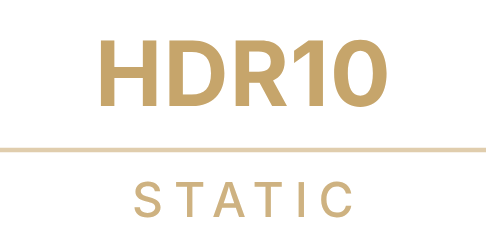
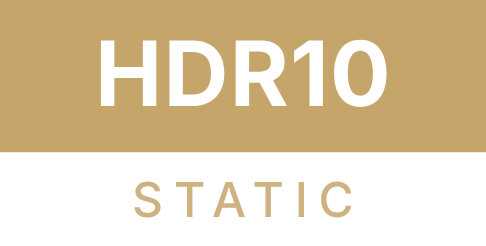
Keep the filled design only; fix image corner radius
Claude-Session: https://claude.ai/code/session_01YC6KB5EZ8ovPvHMJbFMYdf

diff --git a/index.html b/index.html
@@ -28,7 +28,6 @@ ol{padding-left:20px;color:#bdb8af} li{margin:6px 0}
 pre{margin:0;background:#0A0A0A;border:1px solid var(--line);border-radius:6px;padding:14px;overflow:auto;max-height:340px;font:12px/1.5 ui-monospace,SFMono-Regular,Menlo,monospace;color:#cfcac1}
 button{position:absolute;top:0;right:0;background:none;border:1px solid var(--line);color:var(--ink);border-radius:4px;font:500 12px Inter,sans-serif;padding:4px 10px;cursor:pointer}
 button:hover{border-color:var(--gold);color:var(--gold)}
-.tag{width:26px;font:600 10px Inter,sans-serif;letter-spacing:.1em;color:#5A5A5A}
 .legend{display:flex;gap:20px;color:var(--muted);font-size:13px;margin-top:14px}
 .dot{display:inline-block;width:8px;height:8px;border-radius:50%;margin-right:6px;vertical-align:1px}
 footer{margin-top:64px;color:#5A5A5A;font-size:12px}
@@ -43,32 +42,26 @@ footer{margin-top:64px;color:#5A5A5A;font-size:12px}
 <div class="card">
   <p class="vt">Film Title &middot; 2024</p>
   <p class="vs">2h45 &middot; Addon &middot; 69.03 GB</p>
-  <div class="row"><span class="tag">V1</span><span class="tb" style="color:#0E0E0E;border-color:#EDE8DF;background:#EDE8DF">4K</span><span class="tb" style="color:#C6A56B;border-color:#C6A56B;background:transparent">REMUX</span><span class="ib" style="--c:#C6A56B;--h:22px;--bw:1px;--r:5px"><img src="hdr/hdrdv.png" alt="HDR+DV"></span><span class="tb" style="color:#C6A56B;border-color:#C6A56B;background:transparent">ATMOS</span><span class="tb" style="color:#8C8C8C;border-color:#2E2E2E;background:transparent">7.1</span><span class="ib" style="--c:#C6A56B;--h:22px;--bw:1px;--r:5px"><img src="codec/h265.png" alt="H.265"></span><span class="ib" style="--c:#C6A56B;--h:22px;--bw:1px;--r:5px"><img src="codec/10bit.png" alt="10-BIT"></span><span class="tb" style="color:#EDE8DF;border-color:#2A2723;background:#2A2723">VO</span><span class="tb" style="color:#0E0E0E;border-color:#8C8C8C;background:#8C8C8C">RD</span></div>
-  <div class="row" style="margin-top:10px"><span class="tag">V2</span><span class="tb" style="color:#0E0E0E;border-color:#EDE8DF;background:#EDE8DF">4K</span><span class="tb" style="color:#C6A56B;border-color:#C6A56B;background:transparent">REMUX</span><span class="ib" style="--c:#C6A56B;--h:22px;--bw:1px;--r:5px"><img src="v2/hdr/hdrdv.png" alt="HDR+DV"></span><span class="tb" style="color:#C6A56B;border-color:#C6A56B;background:transparent">ATMOS</span><span class="tb" style="color:#8C8C8C;border-color:#2E2E2E;background:transparent">7.1</span><span class="ib" style="--c:#C6A56B;--h:22px;--bw:1px;--r:5px"><img src="v2/codec/h265.png" alt="H.265"></span><span class="ib" style="--c:#C6A56B;--h:22px;--bw:1px;--r:5px"><img src="v2/codec/10bit.png" alt="10-BIT"></span><span class="tb" style="color:#EDE8DF;border-color:#2A2723;background:#2A2723">VO</span><span class="tb" style="color:#0E0E0E;border-color:#8C8C8C;background:#8C8C8C">RD</span></div>
+  <div class="row"><span class="tb" style="color:#0E0E0E;border-color:#EDE8DF;background:#EDE8DF">4K</span><span class="tb" style="color:#C6A56B;border-color:#C6A56B;background:transparent">REMUX</span><span class="ib" style="--c:#C6A56B;--h:22px;--bw:1px;--r:5px"><img src="hdr/hdrdv.png" alt="HDR+DV"></span><span class="tb" style="color:#C6A56B;border-color:#C6A56B;background:transparent">ATMOS</span><span class="tb" style="color:#8C8C8C;border-color:#2E2E2E;background:transparent">7.1</span><span class="ib" style="--c:#C6A56B;--h:22px;--bw:1px;--r:5px"><img src="codec/h265.png" alt="H.265"></span><span class="ib" style="--c:#C6A56B;--h:22px;--bw:1px;--r:5px"><img src="codec/10bit.png" alt="10-BIT"></span><span class="tb" style="color:#EDE8DF;border-color:#2A2723;background:#2A2723">VO</span><span class="tb" style="color:#0E0E0E;border-color:#8C8C8C;background:#8C8C8C">RD</span></div>
 </div>
 
-<h2>Image badges V1</h2>
+<h2>Image badges</h2>
 <div class="card">
-  <div class="grid"><div class="cell"><span class="ib" style="--c:#C6A56B;--h:64px;--bw:2px;--r:6px"><img src="hdr/hdrdv.png" alt="HDR+DV"></span><code>hdr/hdrdv.png</code></div><div class="cell"><span class="ib" style="--c:#C6A56B;--h:64px;--bw:2px;--r:6px"><img src="hdr/hdr10plus.png" alt="HDR10+"></span><code>hdr/hdr10plus.png</code></div><div class="cell"><span class="ib" style="--c:#C6A56B;--h:64px;--bw:2px;--r:6px"><img src="hdr/hdr10.png" alt="HDR10"></span><code>hdr/hdr10.png</code></div><div class="cell"><span class="ib" style="--c:#C6A56B;--h:64px;--bw:2px;--r:6px"><img src="hdr/dv.png" alt="DV"></span><code>hdr/dv.png</code></div><div class="cell"><span class="ib" style="--c:#8C8C8C;--h:64px;--bw:2px;--r:6px"><img src="hdr/hlg.png" alt="HLG"></span><code>hdr/hlg.png</code></div><div class="cell"><span class="ib" style="--c:#8C8C8C;--h:64px;--bw:2px;--r:6px"><img src="hdr/sdr.png" alt="SDR"></span><code>hdr/sdr.png</code></div><div class="cell"><span class="ib" style="--c:#C6A56B;--h:64px;--bw:2px;--r:6px"><img src="codec/h265.png" alt="H.265"></span><code>codec/h265.png</code></div><div class="cell"><span class="ib" style="--c:#C6A56B;--h:64px;--bw:2px;--r:6px"><img src="codec/av1.png" alt="AV1"></span><code>codec/av1.png</code></div><div class="cell"><span class="ib" style="--c:#C6A56B;--h:64px;--bw:2px;--r:6px"><img src="codec/10bit.png" alt="10-BIT"></span><code>codec/10bit.png</code></div><div class="cell"><span class="ib" style="--c:#8C8C8C;--h:64px;--bw:2px;--r:6px"><img src="codec/h264.png" alt="H.264"></span><code>codec/h264.png</code></div><div class="cell"><span class="ib" style="--c:#8C8C8C;--h:64px;--bw:2px;--r:6px"><img src="codec/vp9.png" alt="VP9"></span><code>codec/vp9.png</code></div></div>
+  <div class="grid"><div class="cell"><span class="ib" style="--c:#C6A56B;--h:64px;--bw:2px;--r:7px"><img src="hdr/hdrdv.png" alt="HDR+DV"></span><code>hdr/hdrdv.png</code></div><div class="cell"><span class="ib" style="--c:#C6A56B;--h:64px;--bw:2px;--r:7px"><img src="hdr/hdr10plus.png" alt="HDR10+"></span><code>hdr/hdr10plus.png</code></div><div class="cell"><span class="ib" style="--c:#C6A56B;--h:64px;--bw:2px;--r:7px"><img src="hdr/hdr10.png" alt="HDR10"></span><code>hdr/hdr10.png</code></div><div class="cell"><span class="ib" style="--c:#C6A56B;--h:64px;--bw:2px;--r:7px"><img src="hdr/dv.png" alt="DV"></span><code>hdr/dv.png</code></div><div class="cell"><span class="ib" style="--c:#8C8C8C;--h:64px;--bw:2px;--r:7px"><img src="hdr/hlg.png" alt="HLG"></span><code>hdr/hlg.png</code></div><div class="cell"><span class="ib" style="--c:#8C8C8C;--h:64px;--bw:2px;--r:7px"><img src="hdr/sdr.png" alt="SDR"></span><code>hdr/sdr.png</code></div><div class="cell"><span class="ib" style="--c:#C6A56B;--h:64px;--bw:2px;--r:7px"><img src="codec/h265.png" alt="H.265"></span><code>codec/h265.png</code></div><div class="cell"><span class="ib" style="--c:#C6A56B;--h:64px;--bw:2px;--r:7px"><img src="codec/av1.png" alt="AV1"></span><code>codec/av1.png</code></div><div class="cell"><span class="ib" style="--c:#C6A56B;--h:64px;--bw:2px;--r:7px"><img src="codec/10bit.png" alt="10-BIT"></span><code>codec/10bit.png</code></div><div class="cell"><span class="ib" style="--c:#8C8C8C;--h:64px;--bw:2px;--r:7px"><img src="codec/h264.png" alt="H.264"></span><code>codec/h264.png</code></div><div class="cell"><span class="ib" style="--c:#8C8C8C;--h:64px;--bw:2px;--r:7px"><img src="codec/vp9.png" alt="VP9"></span><code>codec/vp9.png</code></div></div>
   <div class="legend"><span><i class="dot" style="background:#C6A56B"></i>Gold: optimal</span><span><i class="dot" style="background:#8C8C8C"></i>Grey: acceptable</span></div>
-</div>
-
-<h2>Image badges V2</h2>
-<div class="card">
-  <div class="grid"><div class="cell"><span class="ib" style="--c:#C6A56B;--h:64px;--bw:2px;--r:6px"><img src="v2/hdr/hdrdv.png" alt="HDR+DV"></span><code>v2/hdr/hdrdv.png</code></div><div class="cell"><span class="ib" style="--c:#C6A56B;--h:64px;--bw:2px;--r:6px"><img src="v2/hdr/hdr10plus.png" alt="HDR10+"></span><code>v2/hdr/hdr10plus.png</code></div><div class="cell"><span class="ib" style="--c:#C6A56B;--h:64px;--bw:2px;--r:6px"><img src="v2/hdr/hdr10.png" alt="HDR10"></span><code>v2/hdr/hdr10.png</code></div><div class="cell"><span class="ib" style="--c:#C6A56B;--h:64px;--bw:2px;--r:6px"><img src="v2/hdr/dv.png" alt="DV"></span><code>v2/hdr/dv.png</code></div><div class="cell"><span class="ib" style="--c:#8C8C8C;--h:64px;--bw:2px;--r:6px"><img src="v2/hdr/hlg.png" alt="HLG"></span><code>v2/hdr/hlg.png</code></div><div class="cell"><span class="ib" style="--c:#8C8C8C;--h:64px;--bw:2px;--r:6px"><img src="v2/hdr/sdr.png" alt="SDR"></span><code>v2/hdr/sdr.png</code></div><div class="cell"><span class="ib" style="--c:#C6A56B;--h:64px;--bw:2px;--r:6px"><img src="v2/codec/h265.png" alt="H.265"></span><code>v2/codec/h265.png</code></div><div class="cell"><span class="ib" style="--c:#C6A56B;--h:64px;--bw:2px;--r:6px"><img src="v2/codec/av1.png" alt="AV1"></span><code>v2/codec/av1.png</code></div><div class="cell"><span class="ib" style="--c:#C6A56B;--h:64px;--bw:2px;--r:6px"><img src="v2/codec/10bit.png" alt="10-BIT"></span><code>v2/codec/10bit.png</code></div><div class="cell"><span class="ib" style="--c:#8C8C8C;--h:64px;--bw:2px;--r:6px"><img src="v2/codec/h264.png" alt="H.264"></span><code>v2/codec/h264.png</code></div><div class="cell"><span class="ib" style="--c:#8C8C8C;--h:64px;--bw:2px;--r:6px"><img src="v2/codec/vp9.png" alt="VP9"></span><code>v2/codec/vp9.png</code></div></div>
 </div>
 
 <h2>Install</h2>
 <ol>
-<li>Badges: Settings &gt; Playback &gt; Versions &gt; Badges &gt; Edit. Delete all existing badges, paste badges.json (V1) or badges-v2.json (V2) in Import, click Import, then Save. The row should read "47 badges of your own".</li>
-<li>CSS: Settings &gt; Theme &gt; Custom CSS. Paste the CSS at the end, Apply CSS, then Keep within 15 s. Required for the image badges.</li>
-<li>Quick filters: Settings &gt; Playback &gt; Versions &gt; Quick filters &gt; Edit. Delete existing filters, paste the JSON in Import, Save.</li>
+<li>Badges: Settings &gt; Playback &gt; Versions &gt; Badges &gt; Edit. Delete all existing badges, paste badges.json in Import, click Import, then Save. The row should read "47 badges of your own".</li>
+<li>CSS: Settings &gt; Theme &gt; Custom CSS. Paste badges.css at the end, Apply CSS, then Keep within 15 s. Required for the image badges (same height and radius as text badges).</li>
+<li>Quick filters: Settings &gt; Playback &gt; Versions &gt; Quick filters &gt; Edit. Delete existing filters, paste quick-filters.json in Import, Save.</li>
 <li>Quit and relaunch the app so images reload.</li>
 </ol>
 <p>T1, T2, T3 and LQ need the Vidhin ranked stream expressions. RD, TB, AD and EN need four ranked stream expressions named "Ready RD", "Ready TB", "Ready AD", "Ready EN" (see README). Remove badges you do not use before importing.</p>
 
 <h2>Files</h2>
-<div class="blk"><h3>badges.json (V1)</h3><button data-t="b">Copy</button><pre id="b">{
+<div class="blk"><h3>badges.json</h3><button data-t="b">Copy</button><pre id="b">{
   &quot;badges&quot;: [
     {&quot;label&quot;: &quot;T1&quot;, &quot;match&quot;: &quot;\\bT1$&quot;, &quot;fields&quot;: [&quot;rseMatched&quot;], &quot;group&quot;: &quot;tier&quot;, &quot;color&quot;: &quot;#0E0E0E&quot;, &quot;background&quot;: &quot;#C6A56B&quot;, &quot;border&quot;: &quot;#C6A56B&quot;},
     {&quot;label&quot;: &quot;T2&quot;, &quot;match&quot;: &quot;\\bT2$&quot;, &quot;fields&quot;: [&quot;rseMatched&quot;], &quot;group&quot;: &quot;tier&quot;, &quot;color&quot;: &quot;#EDE8DF&quot;, &quot;border&quot;: &quot;#EDE8DF&quot;},
@@ -81,12 +74,12 @@ footer{margin-top:64px;color:#5A5A5A;font-size:12px}
     {&quot;label&quot;: &quot;BLURAY&quot;, &quot;match&quot;: &quot;^blu-?ray$&quot;, &quot;fields&quot;: [&quot;quality&quot;], &quot;group&quot;: &quot;src&quot;, &quot;color&quot;: &quot;#EDE8DF&quot;, &quot;border&quot;: &quot;#4A4A4A&quot;},
     {&quot;label&quot;: &quot;WEB-DL&quot;, &quot;match&quot;: &quot;^web-?dl$&quot;, &quot;fields&quot;: [&quot;quality&quot;], &quot;group&quot;: &quot;src&quot;, &quot;color&quot;: &quot;#8C8C8C&quot;, &quot;border&quot;: &quot;#4A4A4A&quot;},
     {&quot;label&quot;: &quot;WEBRIP&quot;, &quot;match&quot;: &quot;^web-?rip$&quot;, &quot;fields&quot;: [&quot;quality&quot;], &quot;group&quot;: &quot;src&quot;, &quot;color&quot;: &quot;#8C8C8C&quot;, &quot;border&quot;: &quot;#4A4A4A&quot;},
-    {&quot;label&quot;: &quot;HDR+DV&quot;, &quot;match&quot;: &quot;HDR\\+DV|(?=.*\\bHDR)(?=.*\\bDV\\b)&quot;, &quot;fields&quot;: [&quot;visualTags&quot;], &quot;group&quot;: &quot;hdr&quot;, &quot;image&quot;: &quot;https://raw.githubusercontent.com/paulthery/aiostreams-badges/main/hdr/hdrdv.png?v=5&quot;, &quot;border&quot;: &quot;#C6A56B&quot;},
-    {&quot;label&quot;: &quot;HDR10+&quot;, &quot;match&quot;: &quot;HDR10\\+&quot;, &quot;fields&quot;: [&quot;visualTags&quot;], &quot;group&quot;: &quot;hdr&quot;, &quot;image&quot;: &quot;https://raw.githubusercontent.com/paulthery/aiostreams-badges/main/hdr/hdr10plus.png?v=5&quot;, &quot;border&quot;: &quot;#C6A56B&quot;},
-    {&quot;label&quot;: &quot;HDR&quot;, &quot;match&quot;: &quot;\\bHDR(10)?\\b&quot;, &quot;fields&quot;: [&quot;visualTags&quot;], &quot;group&quot;: &quot;hdr&quot;, &quot;image&quot;: &quot;https://raw.githubusercontent.com/paulthery/aiostreams-badges/main/hdr/hdr10.png?v=5&quot;, &quot;border&quot;: &quot;#C6A56B&quot;},
-    {&quot;label&quot;: &quot;DV&quot;, &quot;match&quot;: &quot;\\bDV\\b&quot;, &quot;fields&quot;: [&quot;visualTags&quot;], &quot;group&quot;: &quot;hdr&quot;, &quot;image&quot;: &quot;https://raw.githubusercontent.com/paulthery/aiostreams-badges/main/hdr/dv.png?v=5&quot;, &quot;border&quot;: &quot;#C6A56B&quot;},
-    {&quot;label&quot;: &quot;HLG&quot;, &quot;match&quot;: &quot;^HLG$&quot;, &quot;fields&quot;: [&quot;visualTags&quot;], &quot;group&quot;: &quot;hdr&quot;, &quot;image&quot;: &quot;https://raw.githubusercontent.com/paulthery/aiostreams-badges/main/hdr/hlg.png?v=5&quot;, &quot;border&quot;: &quot;#8C8C8C&quot;},
-    {&quot;label&quot;: &quot;SDR&quot;, &quot;match&quot;: &quot;^SDR$&quot;, &quot;fields&quot;: [&quot;visualTags&quot;], &quot;group&quot;: &quot;hdr&quot;, &quot;image&quot;: &quot;https://raw.githubusercontent.com/paulthery/aiostreams-badges/main/hdr/sdr.png?v=5&quot;, &quot;border&quot;: &quot;#8C8C8C&quot;},
+    {&quot;label&quot;: &quot;HDR+DV&quot;, &quot;match&quot;: &quot;HDR\\+DV|(?=.*\\bHDR)(?=.*\\bDV\\b)&quot;, &quot;fields&quot;: [&quot;visualTags&quot;], &quot;group&quot;: &quot;hdr&quot;, &quot;image&quot;: &quot;https://raw.githubusercontent.com/paulthery/aiostreams-badges/main/hdr/hdrdv.png?v=6&quot;, &quot;border&quot;: &quot;#C6A56B&quot;},
+    {&quot;label&quot;: &quot;HDR10+&quot;, &quot;match&quot;: &quot;HDR10\\+&quot;, &quot;fields&quot;: [&quot;visualTags&quot;], &quot;group&quot;: &quot;hdr&quot;, &quot;image&quot;: &quot;https://raw.githubusercontent.com/paulthery/aiostreams-badges/main/hdr/hdr10plus.png?v=6&quot;, &quot;border&quot;: &quot;#C6A56B&quot;},
+    {&quot;label&quot;: &quot;HDR&quot;, &quot;match&quot;: &quot;\\bHDR(10)?\\b&quot;, &quot;fields&quot;: [&quot;visualTags&quot;], &quot;group&quot;: &quot;hdr&quot;, &quot;image&quot;: &quot;https://raw.githubusercontent.com/paulthery/aiostreams-badges/main/hdr/hdr10.png?v=6&quot;, &quot;border&quot;: &quot;#C6A56B&quot;},
+    {&quot;label&quot;: &quot;DV&quot;, &quot;match&quot;: &quot;\\bDV\\b&quot;, &quot;fields&quot;: [&quot;visualTags&quot;], &quot;group&quot;: &quot;hdr&quot;, &quot;image&quot;: &quot;https://raw.githubusercontent.com/paulthery/aiostreams-badges/main/hdr/dv.png?v=6&quot;, &quot;border&quot;: &quot;#C6A56B&quot;},
+    {&quot;label&quot;: &quot;HLG&quot;, &quot;match&quot;: &quot;^HLG$&quot;, &quot;fields&quot;: [&quot;visualTags&quot;], &quot;group&quot;: &quot;hdr&quot;, &quot;image&quot;: &quot;https://raw.githubusercontent.com/paulthery/aiostreams-badges/main/hdr/hlg.png?v=6&quot;, &quot;border&quot;: &quot;#8C8C8C&quot;},
+    {&quot;label&quot;: &quot;SDR&quot;, &quot;match&quot;: &quot;^SDR$&quot;, &quot;fields&quot;: [&quot;visualTags&quot;], &quot;group&quot;: &quot;hdr&quot;, &quot;image&quot;: &quot;https://raw.githubusercontent.com/paulthery/aiostreams-badges/main/hdr/sdr.png?v=6&quot;, &quot;border&quot;: &quot;#8C8C8C&quot;},
     {&quot;label&quot;: &quot;IMAX&quot;, &quot;match&quot;: &quot;\\bimax\\b&quot;, &quot;fields&quot;: [&quot;visualTags&quot;, &quot;editions&quot;, &quot;filename&quot;], &quot;color&quot;: &quot;#EDE8DF&quot;, &quot;border&quot;: &quot;#4A4A4A&quot;},
     {&quot;label&quot;: &quot;ATMOS&quot;, &quot;match&quot;: &quot;atmos&quot;, &quot;fields&quot;: [&quot;audioTags&quot;], &quot;group&quot;: &quot;audio&quot;, &quot;color&quot;: &quot;#C6A56B&quot;, &quot;border&quot;: &quot;#C6A56B&quot;},
     {&quot;label&quot;: &quot;DTS:X&quot;, &quot;match&quot;: &quot;dts[:-]?x&quot;, &quot;fields&quot;: [&quot;audioTags&quot;], &quot;group&quot;: &quot;audio&quot;, &quot;color&quot;: &quot;#C6A56B&quot;, &quot;border&quot;: &quot;#4A4A4A&quot;},
@@ -95,62 +88,11 @@ footer{margin-top:64px;color:#5A5A5A;font-size:12px}
     {&quot;label&quot;: &quot;DD+&quot;, &quot;match&quot;: &quot;^dd\\+$&quot;, &quot;fields&quot;: [&quot;audioTags&quot;], &quot;group&quot;: &quot;audio&quot;, &quot;color&quot;: &quot;#8C8C8C&quot;, &quot;border&quot;: &quot;#4A4A4A&quot;},
     {&quot;label&quot;: &quot;7.1&quot;, &quot;match&quot;: &quot;^7\\.1$&quot;, &quot;fields&quot;: [&quot;audioChannels&quot;], &quot;group&quot;: &quot;ch&quot;, &quot;color&quot;: &quot;#8C8C8C&quot;, &quot;border&quot;: &quot;#2E2E2E&quot;},
     {&quot;label&quot;: &quot;5.1&quot;, &quot;match&quot;: &quot;^5\\.1$&quot;, &quot;fields&quot;: [&quot;audioChannels&quot;], &quot;group&quot;: &quot;ch&quot;, &quot;color&quot;: &quot;#8C8C8C&quot;, &quot;border&quot;: &quot;#2E2E2E&quot;},
-    {&quot;label&quot;: &quot;HEVC&quot;, &quot;match&quot;: &quot;^(HEVC|H\\.?265|x265)$&quot;, &quot;fields&quot;: [&quot;encode&quot;], &quot;group&quot;: &quot;enc&quot;, &quot;image&quot;: &quot;https://raw.githubusercontent.com/paulthery/aiostreams-badges/main/codec/h265.png?v=5&quot;, &quot;border&quot;: &quot;#C6A56B&quot;},
-    {&quot;label&quot;: &quot;AV1&quot;, &quot;match&quot;: &quot;^AV1$&quot;, &quot;fields&quot;: [&quot;encode&quot;], &quot;group&quot;: &quot;enc&quot;, &quot;image&quot;: &quot;https://raw.githubusercontent.com/paulthery/aiostreams-badges/main/codec/av1.png?v=5&quot;, &quot;border&quot;: &quot;#C6A56B&quot;},
-    {&quot;label&quot;: &quot;H.264&quot;, &quot;match&quot;: &quot;^(AVC|H\\.?264|x264)$&quot;, &quot;fields&quot;: [&quot;encode&quot;], &quot;group&quot;: &quot;enc&quot;, &quot;image&quot;: &quot;https://raw.githubusercontent.com/paulthery/aiostreams-badges/main/codec/h264.png?v=5&quot;, &quot;border&quot;: &quot;#8C8C8C&quot;},
-    {&quot;label&quot;: &quot;VP9&quot;, &quot;match&quot;: &quot;^VP9$&quot;, &quot;fields&quot;: [&quot;encode&quot;], &quot;group&quot;: &quot;enc&quot;, &quot;image&quot;: &quot;https://raw.githubusercontent.com/paulthery/aiostreams-badges/main/codec/vp9.png?v=5&quot;, &quot;border&quot;: &quot;#8C8C8C&quot;},
-    {&quot;label&quot;: &quot;10BIT&quot;, &quot;match&quot;: &quot;\\b10[ ._-]?bit\\b&quot;, &quot;fields&quot;: [&quot;filename&quot;], &quot;image&quot;: &quot;https://raw.githubusercontent.com/paulthery/aiostreams-badges/main/codec/10bit.png?v=5&quot;, &quot;border&quot;: &quot;#C6A56B&quot;},
-    {&quot;label&quot;: &quot;VFF&quot;, &quot;match&quot;: &quot;\\b(TRUEFRENCH|VFF|VF2)\\b&quot;, &quot;fields&quot;: [&quot;filename&quot;, &quot;folderName&quot;], &quot;group&quot;: &quot;fr&quot;, &quot;color&quot;: &quot;#EDE8DF&quot;, &quot;background&quot;: &quot;#2A2723&quot;, &quot;border&quot;: &quot;#2A2723&quot;},
-    {&quot;label&quot;: &quot;VFQ&quot;, &quot;match&quot;: &quot;\\b(VFQ|VQ)\\b&quot;, &quot;fields&quot;: [&quot;filename&quot;, &quot;folderName&quot;], &quot;group&quot;: &quot;fr&quot;, &quot;color&quot;: &quot;#EDE8DF&quot;, &quot;background&quot;: &quot;#2A2723&quot;, &quot;border&quot;: &quot;#2A2723&quot;},
-    {&quot;label&quot;: &quot;VF&quot;, &quot;match&quot;: &quot;^French$&quot;, &quot;fields&quot;: [&quot;languages&quot;], &quot;group&quot;: &quot;fr&quot;, &quot;color&quot;: &quot;#EDE8DF&quot;, &quot;background&quot;: &quot;#2A2723&quot;, &quot;border&quot;: &quot;#2A2723&quot;},
-    {&quot;label&quot;: &quot;VOSTFR&quot;, &quot;match&quot;: &quot;\\b(VOST(FR)?|SUBFRENCH)\\b&quot;, &quot;fields&quot;: [&quot;filename&quot;, &quot;folderName&quot;], &quot;group&quot;: &quot;fr&quot;, &quot;color&quot;: &quot;#8C8C8C&quot;, &quot;background&quot;: &quot;#1C1B19&quot;, &quot;border&quot;: &quot;#1C1B19&quot;},
-    {&quot;label&quot;: &quot;VF+VO&quot;, &quot;match&quot;: &quot;\\bmulti\\b|^dual audio$&quot;, &quot;fields&quot;: [&quot;languages&quot;, &quot;filename&quot;, &quot;folderName&quot;], &quot;group&quot;: &quot;lang&quot;, &quot;color&quot;: &quot;#EDE8DF&quot;, &quot;background&quot;: &quot;#2A2723&quot;, &quot;border&quot;: &quot;#2A2723&quot;},
-    {&quot;label&quot;: &quot;VO&quot;, &quot;match&quot;: &quot;^(English|Original)$&quot;, &quot;fields&quot;: [&quot;languages&quot;], &quot;group&quot;: &quot;lang&quot;, &quot;color&quot;: &quot;#EDE8DF&quot;, &quot;background&quot;: &quot;#2A2723&quot;, &quot;border&quot;: &quot;#2A2723&quot;},
-    {&quot;label&quot;: &quot;DIR CUT&quot;, &quot;match&quot;: &quot;director&quot;, &quot;fields&quot;: [&quot;editions&quot;], &quot;group&quot;: &quot;ed&quot;, &quot;color&quot;: &quot;#8C8C8C&quot;, &quot;border&quot;: &quot;#2E2E2E&quot;},
-    {&quot;label&quot;: &quot;EXTENDED&quot;, &quot;match&quot;: &quot;extended&quot;, &quot;fields&quot;: [&quot;editions&quot;], &quot;group&quot;: &quot;ed&quot;, &quot;color&quot;: &quot;#8C8C8C&quot;, &quot;border&quot;: &quot;#2E2E2E&quot;},
-    {&quot;label&quot;: &quot;REMASTERED&quot;, &quot;match&quot;: &quot;remaster&quot;, &quot;fields&quot;: [&quot;editions&quot;], &quot;group&quot;: &quot;ed&quot;, &quot;color&quot;: &quot;#8C8C8C&quot;, &quot;border&quot;: &quot;#2E2E2E&quot;},
-    {&quot;label&quot;: &quot;CRITERION&quot;, &quot;match&quot;: &quot;\\b(criterion|CC)\\b&quot;, &quot;fields&quot;: [&quot;filename&quot;, &quot;folderName&quot;], &quot;color&quot;: &quot;#C6A56B&quot;, &quot;border&quot;: &quot;#4A4A4A&quot;},
-    {&quot;label&quot;: &quot;OPEN MATTE&quot;, &quot;match&quot;: &quot;open[ ._-]?matte&quot;, &quot;fields&quot;: [&quot;filename&quot;, &quot;folderName&quot;], &quot;color&quot;: &quot;#EDE8DF&quot;, &quot;border&quot;: &quot;#2E2E2E&quot;},
-    {&quot;label&quot;: &quot;PROPER&quot;, &quot;match&quot;: &quot;\\b(repack|proper|rerip)\\d?\\b&quot;, &quot;fields&quot;: [&quot;filename&quot;], &quot;color&quot;: &quot;#8C8C8C&quot;, &quot;border&quot;: &quot;#2E2E2E&quot;},
-    {&quot;label&quot;: &quot;PACK&quot;, &quot;match&quot;: &quot;\\bS\\d{1,2}\\b(?![ ._-]?E\\d)|\\bcomplete\\b|\\bintegrale?\\b&quot;, &quot;fields&quot;: [&quot;filename&quot;, &quot;folderName&quot;], &quot;color&quot;: &quot;#8C8C8C&quot;, &quot;border&quot;: &quot;#2E2E2E&quot;},
-    {&quot;label&quot;: &quot;RD&quot;, &quot;match&quot;: &quot;^Ready RD$&quot;, &quot;fields&quot;: [&quot;rseMatched&quot;], &quot;group&quot;: &quot;svc&quot;, &quot;color&quot;: &quot;#0E0E0E&quot;, &quot;background&quot;: &quot;#8C8C8C&quot;, &quot;border&quot;: &quot;#8C8C8C&quot;},
-    {&quot;label&quot;: &quot;TB&quot;, &quot;match&quot;: &quot;^Ready TB$&quot;, &quot;fields&quot;: [&quot;rseMatched&quot;], &quot;group&quot;: &quot;svc&quot;, &quot;color&quot;: &quot;#0E0E0E&quot;, &quot;background&quot;: &quot;#8C8C8C&quot;, &quot;border&quot;: &quot;#8C8C8C&quot;},
-    {&quot;label&quot;: &quot;AD&quot;, &quot;match&quot;: &quot;^Ready AD$&quot;, &quot;fields&quot;: [&quot;rseMatched&quot;], &quot;group&quot;: &quot;svc&quot;, &quot;color&quot;: &quot;#0E0E0E&quot;, &quot;background&quot;: &quot;#8C8C8C&quot;, &quot;border&quot;: &quot;#8C8C8C&quot;},
-    {&quot;label&quot;: &quot;EN&quot;, &quot;match&quot;: &quot;^Ready EN$&quot;, &quot;fields&quot;: [&quot;rseMatched&quot;], &quot;group&quot;: &quot;svc&quot;, &quot;color&quot;: &quot;#0E0E0E&quot;, &quot;background&quot;: &quot;#8C8C8C&quot;, &quot;border&quot;: &quot;#8C8C8C&quot;}
-  ]
-}</pre></div>
-<div class="blk"><h3>badges-v2.json</h3><button data-t="b2">Copy</button><pre id="b2">{
-  &quot;badges&quot;: [
-    {&quot;label&quot;: &quot;T1&quot;, &quot;match&quot;: &quot;\\bT1$&quot;, &quot;fields&quot;: [&quot;rseMatched&quot;], &quot;group&quot;: &quot;tier&quot;, &quot;color&quot;: &quot;#0E0E0E&quot;, &quot;background&quot;: &quot;#C6A56B&quot;, &quot;border&quot;: &quot;#C6A56B&quot;},
-    {&quot;label&quot;: &quot;T2&quot;, &quot;match&quot;: &quot;\\bT2$&quot;, &quot;fields&quot;: [&quot;rseMatched&quot;], &quot;group&quot;: &quot;tier&quot;, &quot;color&quot;: &quot;#EDE8DF&quot;, &quot;border&quot;: &quot;#EDE8DF&quot;},
-    {&quot;label&quot;: &quot;T3&quot;, &quot;match&quot;: &quot;\\bT3$&quot;, &quot;fields&quot;: [&quot;rseMatched&quot;], &quot;group&quot;: &quot;tier&quot;, &quot;color&quot;: &quot;#8C8C8C&quot;, &quot;border&quot;: &quot;#4A4A4A&quot;},
-    {&quot;label&quot;: &quot;LQ&quot;, &quot;match&quot;: &quot;^(LQ|LQ Title|Anime LQ|Asian LQ|Upscaled|FR FastSUB|FR LQ .*)$&quot;, &quot;fields&quot;: [&quot;rseMatched&quot;], &quot;color&quot;: &quot;#8C8C8C&quot;, &quot;border&quot;: &quot;#8C8C8C&quot;},
-    {&quot;label&quot;: &quot;4K&quot;, &quot;match&quot;: &quot;^(2160p|4k)$&quot;, &quot;fields&quot;: [&quot;resolution&quot;], &quot;group&quot;: &quot;res&quot;, &quot;color&quot;: &quot;#0E0E0E&quot;, &quot;background&quot;: &quot;#EDE8DF&quot;, &quot;border&quot;: &quot;#EDE8DF&quot;},
-    {&quot;label&quot;: &quot;1080&quot;, &quot;match&quot;: &quot;^1080p$&quot;, &quot;fields&quot;: [&quot;resolution&quot;], &quot;group&quot;: &quot;res&quot;, &quot;color&quot;: &quot;#EDE8DF&quot;, &quot;border&quot;: &quot;#EDE8DF&quot;},
-    {&quot;label&quot;: &quot;720&quot;, &quot;match&quot;: &quot;^720p$&quot;, &quot;fields&quot;: [&quot;resolution&quot;], &quot;group&quot;: &quot;res&quot;, &quot;color&quot;: &quot;#8C8C8C&quot;, &quot;border&quot;: &quot;#4A4A4A&quot;},
-    {&quot;label&quot;: &quot;REMUX&quot;, &quot;match&quot;: &quot;remux&quot;, &quot;fields&quot;: [&quot;quality&quot;], &quot;group&quot;: &quot;src&quot;, &quot;color&quot;: &quot;#C6A56B&quot;, &quot;border&quot;: &quot;#C6A56B&quot;},
-    {&quot;label&quot;: &quot;BLURAY&quot;, &quot;match&quot;: &quot;^blu-?ray$&quot;, &quot;fields&quot;: [&quot;quality&quot;], &quot;group&quot;: &quot;src&quot;, &quot;color&quot;: &quot;#EDE8DF&quot;, &quot;border&quot;: &quot;#4A4A4A&quot;},
-    {&quot;label&quot;: &quot;WEB-DL&quot;, &quot;match&quot;: &quot;^web-?dl$&quot;, &quot;fields&quot;: [&quot;quality&quot;], &quot;group&quot;: &quot;src&quot;, &quot;color&quot;: &quot;#8C8C8C&quot;, &quot;border&quot;: &quot;#4A4A4A&quot;},
-    {&quot;label&quot;: &quot;WEBRIP&quot;, &quot;match&quot;: &quot;^web-?rip$&quot;, &quot;fields&quot;: [&quot;quality&quot;], &quot;group&quot;: &quot;src&quot;, &quot;color&quot;: &quot;#8C8C8C&quot;, &quot;border&quot;: &quot;#4A4A4A&quot;},
-    {&quot;label&quot;: &quot;HDR+DV&quot;, &quot;match&quot;: &quot;HDR\\+DV|(?=.*\\bHDR)(?=.*\\bDV\\b)&quot;, &quot;fields&quot;: [&quot;visualTags&quot;], &quot;group&quot;: &quot;hdr&quot;, &quot;image&quot;: &quot;https://raw.githubusercontent.com/paulthery/aiostreams-badges/main/v2/hdr/hdrdv.png?v=1&quot;, &quot;border&quot;: &quot;#C6A56B&quot;},
-    {&quot;label&quot;: &quot;HDR10+&quot;, &quot;match&quot;: &quot;HDR10\\+&quot;, &quot;fields&quot;: [&quot;visualTags&quot;], &quot;group&quot;: &quot;hdr&quot;, &quot;image&quot;: &quot;https://raw.githubusercontent.com/paulthery/aiostreams-badges/main/v2/hdr/hdr10plus.png?v=1&quot;, &quot;border&quot;: &quot;#C6A56B&quot;},
-    {&quot;label&quot;: &quot;HDR&quot;, &quot;match&quot;: &quot;\\bHDR(10)?\\b&quot;, &quot;fields&quot;: [&quot;visualTags&quot;], &quot;group&quot;: &quot;hdr&quot;, &quot;image&quot;: &quot;https://raw.githubusercontent.com/paulthery/aiostreams-badges/main/v2/hdr/hdr10.png?v=1&quot;, &quot;border&quot;: &quot;#C6A56B&quot;},
-    {&quot;label&quot;: &quot;DV&quot;, &quot;match&quot;: &quot;\\bDV\\b&quot;, &quot;fields&quot;: [&quot;visualTags&quot;], &quot;group&quot;: &quot;hdr&quot;, &quot;image&quot;: &quot;https://raw.githubusercontent.com/paulthery/aiostreams-badges/main/v2/hdr/dv.png?v=1&quot;, &quot;border&quot;: &quot;#C6A56B&quot;},
-    {&quot;label&quot;: &quot;HLG&quot;, &quot;match&quot;: &quot;^HLG$&quot;, &quot;fields&quot;: [&quot;visualTags&quot;], &quot;group&quot;: &quot;hdr&quot;, &quot;image&quot;: &quot;https://raw.githubusercontent.com/paulthery/aiostreams-badges/main/v2/hdr/hlg.png?v=1&quot;, &quot;border&quot;: &quot;#8C8C8C&quot;},
-    {&quot;label&quot;: &quot;SDR&quot;, &quot;match&quot;: &quot;^SDR$&quot;, &quot;fields&quot;: [&quot;visualTags&quot;], &quot;group&quot;: &quot;hdr&quot;, &quot;image&quot;: &quot;https://raw.githubusercontent.com/paulthery/aiostreams-badges/main/v2/hdr/sdr.png?v=1&quot;, &quot;border&quot;: &quot;#8C8C8C&quot;},
-    {&quot;label&quot;: &quot;IMAX&quot;, &quot;match&quot;: &quot;\\bimax\\b&quot;, &quot;fields&quot;: [&quot;visualTags&quot;, &quot;editions&quot;, &quot;filename&quot;], &quot;color&quot;: &quot;#EDE8DF&quot;, &quot;border&quot;: &quot;#4A4A4A&quot;},
-    {&quot;label&quot;: &quot;ATMOS&quot;, &quot;match&quot;: &quot;atmos&quot;, &quot;fields&quot;: [&quot;audioTags&quot;], &quot;group&quot;: &quot;audio&quot;, &quot;color&quot;: &quot;#C6A56B&quot;, &quot;border&quot;: &quot;#C6A56B&quot;},
-    {&quot;label&quot;: &quot;DTS:X&quot;, &quot;match&quot;: &quot;dts[:-]?x&quot;, &quot;fields&quot;: [&quot;audioTags&quot;], &quot;group&quot;: &quot;audio&quot;, &quot;color&quot;: &quot;#C6A56B&quot;, &quot;border&quot;: &quot;#4A4A4A&quot;},
-    {&quot;label&quot;: &quot;TRUEHD&quot;, &quot;match&quot;: &quot;truehd&quot;, &quot;fields&quot;: [&quot;audioTags&quot;], &quot;group&quot;: &quot;audio&quot;, &quot;color&quot;: &quot;#EDE8DF&quot;, &quot;border&quot;: &quot;#4A4A4A&quot;},
-    {&quot;label&quot;: &quot;DTS-HD MA&quot;, &quot;match&quot;: &quot;dts-hd ?ma&quot;, &quot;fields&quot;: [&quot;audioTags&quot;], &quot;group&quot;: &quot;audio&quot;, &quot;color&quot;: &quot;#EDE8DF&quot;, &quot;border&quot;: &quot;#4A4A4A&quot;},
-    {&quot;label&quot;: &quot;DD+&quot;, &quot;match&quot;: &quot;^dd\\+$&quot;, &quot;fields&quot;: [&quot;audioTags&quot;], &quot;group&quot;: &quot;audio&quot;, &quot;color&quot;: &quot;#8C8C8C&quot;, &quot;border&quot;: &quot;#4A4A4A&quot;},
-    {&quot;label&quot;: &quot;7.1&quot;, &quot;match&quot;: &quot;^7\\.1$&quot;, &quot;fields&quot;: [&quot;audioChannels&quot;], &quot;group&quot;: &quot;ch&quot;, &quot;color&quot;: &quot;#8C8C8C&quot;, &quot;border&quot;: &quot;#2E2E2E&quot;},
-    {&quot;label&quot;: &quot;5.1&quot;, &quot;match&quot;: &quot;^5\\.1$&quot;, &quot;fields&quot;: [&quot;audioChannels&quot;], &quot;group&quot;: &quot;ch&quot;, &quot;color&quot;: &quot;#8C8C8C&quot;, &quot;border&quot;: &quot;#2E2E2E&quot;},
-    {&quot;label&quot;: &quot;HEVC&quot;, &quot;match&quot;: &quot;^(HEVC|H\\.?265|x265)$&quot;, &quot;fields&quot;: [&quot;encode&quot;], &quot;group&quot;: &quot;enc&quot;, &quot;image&quot;: &quot;https://raw.githubusercontent.com/paulthery/aiostreams-badges/main/v2/codec/h265.png?v=1&quot;, &quot;border&quot;: &quot;#C6A56B&quot;},
-    {&quot;label&quot;: &quot;AV1&quot;, &quot;match&quot;: &quot;^AV1$&quot;, &quot;fields&quot;: [&quot;encode&quot;], &quot;group&quot;: &quot;enc&quot;, &quot;image&quot;: &quot;https://raw.githubusercontent.com/paulthery/aiostreams-badges/main/v2/codec/av1.png?v=1&quot;, &quot;border&quot;: &quot;#C6A56B&quot;},
-    {&quot;label&quot;: &quot;H.264&quot;, &quot;match&quot;: &quot;^(AVC|H\\.?264|x264)$&quot;, &quot;fields&quot;: [&quot;encode&quot;], &quot;group&quot;: &quot;enc&quot;, &quot;image&quot;: &quot;https://raw.githubusercontent.com/paulthery/aiostreams-badges/main/v2/codec/h264.png?v=1&quot;, &quot;border&quot;: &quot;#8C8C8C&quot;},
-    {&quot;label&quot;: &quot;VP9&quot;, &quot;match&quot;: &quot;^VP9$&quot;, &quot;fields&quot;: [&quot;encode&quot;], &quot;group&quot;: &quot;enc&quot;, &quot;image&quot;: &quot;https://raw.githubusercontent.com/paulthery/aiostreams-badges/main/v2/codec/vp9.png?v=1&quot;, &quot;border&quot;: &quot;#8C8C8C&quot;},
-    {&quot;label&quot;: &quot;10BIT&quot;, &quot;match&quot;: &quot;\\b10[ ._-]?bit\\b&quot;, &quot;fields&quot;: [&quot;filename&quot;], &quot;image&quot;: &quot;https://raw.githubusercontent.com/paulthery/aiostreams-badges/main/v2/codec/10bit.png?v=1&quot;, &quot;border&quot;: &quot;#C6A56B&quot;},
+    {&quot;label&quot;: &quot;HEVC&quot;, &quot;match&quot;: &quot;^(HEVC|H\\.?265|x265)$&quot;, &quot;fields&quot;: [&quot;encode&quot;], &quot;group&quot;: &quot;enc&quot;, &quot;image&quot;: &quot;https://raw.githubusercontent.com/paulthery/aiostreams-badges/main/codec/h265.png?v=6&quot;, &quot;border&quot;: &quot;#C6A56B&quot;},
+    {&quot;label&quot;: &quot;AV1&quot;, &quot;match&quot;: &quot;^AV1$&quot;, &quot;fields&quot;: [&quot;encode&quot;], &quot;group&quot;: &quot;enc&quot;, &quot;image&quot;: &quot;https://raw.githubusercontent.com/paulthery/aiostreams-badges/main/codec/av1.png?v=6&quot;, &quot;border&quot;: &quot;#C6A56B&quot;},
+    {&quot;label&quot;: &quot;H.264&quot;, &quot;match&quot;: &quot;^(AVC|H\\.?264|x264)$&quot;, &quot;fields&quot;: [&quot;encode&quot;], &quot;group&quot;: &quot;enc&quot;, &quot;image&quot;: &quot;https://raw.githubusercontent.com/paulthery/aiostreams-badges/main/codec/h264.png?v=6&quot;, &quot;border&quot;: &quot;#8C8C8C&quot;},
+    {&quot;label&quot;: &quot;VP9&quot;, &quot;match&quot;: &quot;^VP9$&quot;, &quot;fields&quot;: [&quot;encode&quot;], &quot;group&quot;: &quot;enc&quot;, &quot;image&quot;: &quot;https://raw.githubusercontent.com/paulthery/aiostreams-badges/main/codec/vp9.png?v=6&quot;, &quot;border&quot;: &quot;#8C8C8C&quot;},
+    {&quot;label&quot;: &quot;10BIT&quot;, &quot;match&quot;: &quot;\\b10[ ._-]?bit\\b&quot;, &quot;fields&quot;: [&quot;filename&quot;], &quot;image&quot;: &quot;https://raw.githubusercontent.com/paulthery/aiostreams-badges/main/codec/10bit.png?v=6&quot;, &quot;border&quot;: &quot;#C6A56B&quot;},
     {&quot;label&quot;: &quot;VFF&quot;, &quot;match&quot;: &quot;\\b(TRUEFRENCH|VFF|VF2)\\b&quot;, &quot;fields&quot;: [&quot;filename&quot;, &quot;folderName&quot;], &quot;group&quot;: &quot;fr&quot;, &quot;color&quot;: &quot;#EDE8DF&quot;, &quot;background&quot;: &quot;#2A2723&quot;, &quot;border&quot;: &quot;#2A2723&quot;},
     {&quot;label&quot;: &quot;VFQ&quot;, &quot;match&quot;: &quot;\\b(VFQ|VQ)\\b&quot;, &quot;fields&quot;: [&quot;filename&quot;, &quot;folderName&quot;], &quot;group&quot;: &quot;fr&quot;, &quot;color&quot;: &quot;#EDE8DF&quot;, &quot;background&quot;: &quot;#2A2723&quot;, &quot;border&quot;: &quot;#2A2723&quot;},
     {&quot;label&quot;: &quot;VF&quot;, &quot;match&quot;: &quot;^French$&quot;, &quot;fields&quot;: [&quot;languages&quot;], &quot;group&quot;: &quot;fr&quot;, &quot;color&quot;: &quot;#EDE8DF&quot;, &quot;background&quot;: &quot;#2A2723&quot;, &quot;border&quot;: &quot;#2A2723&quot;},
@@ -189,6 +131,7 @@ img[data-ui=&#x27;version-badge&#x27;] {
 }
 [data-ui=&#x27;version-badge&#x27;] &gt; img {
   height: 100% !important;
+  border-radius: 0 !important;
   width: auto !important;
   max-height: none !important;
   display: block;
@@ -215,8 +158,8 @@ document.querySelectorAll('button[data-t]').forEach(function(btn){
   btn.addEventListener('click',function(){
     var txt=document.getElementById(btn.dataset.t).textContent;
     function done(){btn.textContent='Copied';setTimeout(function(){btn.textContent='Copy'},1400)}
-    if(navigator.clipboard&&navigator.clipboard.writeText){navigator.clipboard.writeText(txt).then(done,fallback)}else{fallback()}
     function fallback(){var t=document.createElement('textarea');t.value=txt;document.body.appendChild(t);t.select();try{document.execCommand('copy');done()}catch(e){}document.body.removeChild(t)}
+    if(navigator.clipboard&&navigator.clipboard.writeText){navigator.clipboard.writeText(txt).then(done,fallback)}else{fallback()}
   });
 });
 </script>

diff --git a/badges.css b/badges.css
@@ -17,6 +17,7 @@ img[data-ui='version-badge'] {
 }
 [data-ui='version-badge'] > img {
   height: 100% !important;
+  border-radius: 0 !important;
   width: auto !important;
   max-height: none !important;
   display: block;

diff --git a/README.md b/README.md
@@ -1,31 +1,22 @@
 # aiostreams-badges
 
 Version badges for the AIOStreams app. Gold = optimal, grey = acceptable.
-Codec and dynamic range are image badges (two lines: name over detail).
-Everything else stays as native text badges.
+Codec and dynamic range are two-line image badges: a filled top block with
+the name cut out, the detail below a full-width rule. Everything else stays
+as native text badges.
 
-![V1](preview-v1.png)
-![V2](preview-v2.png)
+![Preview](preview.png)
 
 Open index.html for a visual overview with copy buttons.
-
-## Versions
-
-    V1  gold text on transparent, thin rule across the box   badges.json
-    V2  gold top block with cut-out text, bottom as V1        badges-v2.json
-
-Both use the same badges.css (one height and one corner radius for all
-badges, image fills the app frame).
 
 ## Files
 
     index.html          overview page: preview, install, copy buttons
-    badges.json         full badge set, V1 images (47 badges)
-    badges-v2.json      full badge set, V2 images
-    quick-filters.json  quick filter row (T1, 4K, HD, SD, HDR, SDR, IMAX, Extended, VF)
+    badges.json         full badge set (47 badges)
     badges.css          custom CSS, required for the image badges
-    codec/  hdr/        V1 images, PNG 6x + SVG
-    v2/codec/  v2/hdr/  V2 images, PNG 6x + SVG
+    quick-filters.json  quick filter row (T1, 4K, HD, SD, HDR, SDR, IMAX, Extended, VF)
+    codec/  hdr/        images, PNG 6x + SVG
+    preview.png         preview
 
     gold  codec: h265 av1 10bit    hdr: hdrdv dv hdr10plus hdr10
     grey  codec: h264 vp9          hdr: hlg sdr
@@ -34,14 +25,16 @@ badges, image fills the app frame).
 
 1. Badges: Settings > Playback > Versions > Badges > Edit.
    Delete all existing badges (same label = first one wins), paste
-   badges.json (V1) or badges-v2.json (V2) in Import, click Import, then Save.
+   badges.json in Import, click Import, then Save.
    The row should read "47 badges of your own".
 2. CSS: Settings > Theme > Custom CSS. Paste badges.css at the end,
-   Apply CSS, then Keep within 15 s. Without it the images render small
-   and sit low.
+   Apply CSS, then Keep within 15 s. It gives text and image badges the
+   same height and corner radius and makes the image fill the frame.
 3. Quick filters: Settings > Playback > Versions > Quick filters > Edit.
    Delete existing filters, paste quick-filters.json in Import, Save.
 4. Quit and relaunch the app (Cmd+Q) so images reload.
+
+The CSS cannot live inside badges.json: the badge format has no CSS field.
 
 Image URLs carry ?v=N. Bump N after replacing an image: GitHub raw and the
 app both cache.
@@ -63,10 +56,9 @@ Remove the badges you do not need before importing.
 
 ## Design
 
-Typeface Inter. Image 81 x 41 units: top 15 pt bold, bottom 8 pt medium
-tracked 1.8, rule 0.75 at 55 % on the boundary. V2 fills the top
-block with the tier colour and cuts the top text out. The app border (1 px,
-gold #C6A56B or grey #8C8C8C) frames it; badge padding is 0 via CSS.
-CSS sets every badge to 1.375rem high with a 5 px radius.
-Palette: black #0E0E0E, ivory #EDE8DF, gold #C6A56B, greys #8C8C8C
-#5A5A5A #4A4A4A #2E2E2E, FR fill #2A2723 / #1C1B19.
+Typeface Inter. Image 81 x 41 units, no frame: top block filled with the
+tier colour, name cut out (Inter Bold 15); detail below (Inter Medium 8,
+tracked 1.8, 85 %). The app border (1 px, gold #C6A56B or grey #8C8C8C)
+frames it. CSS: every badge 1.375rem high, 5 px radius, image badges with
+padding 0. Palette: black #0E0E0E, ivory #EDE8DF, gold #C6A56B, greys
+#8C8C8C #5A5A5A #4A4A4A #2E2E2E, FR fill #2A2723 / #1C1B19.
